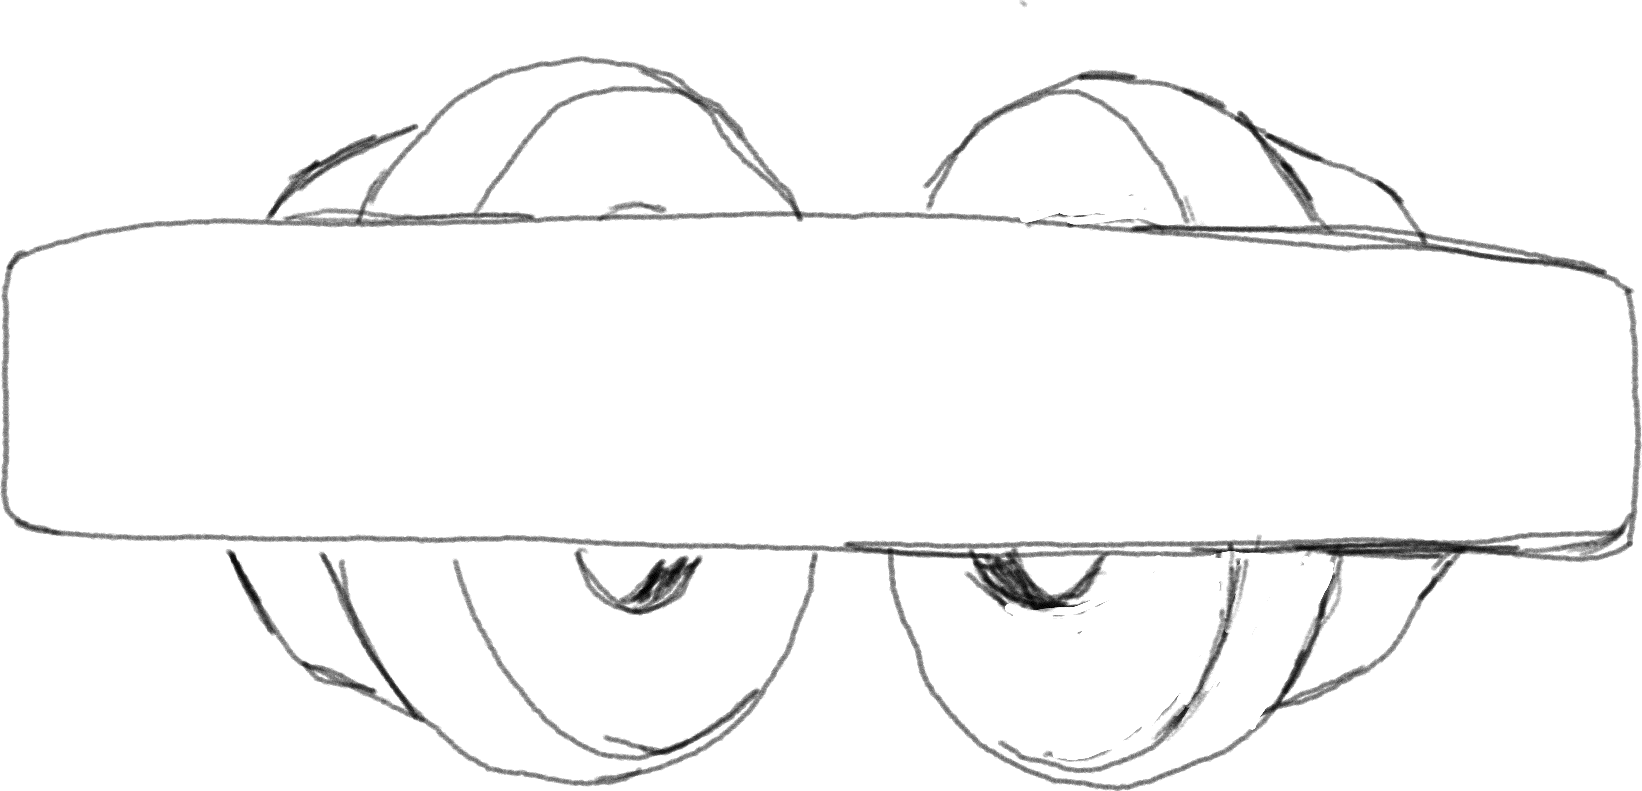
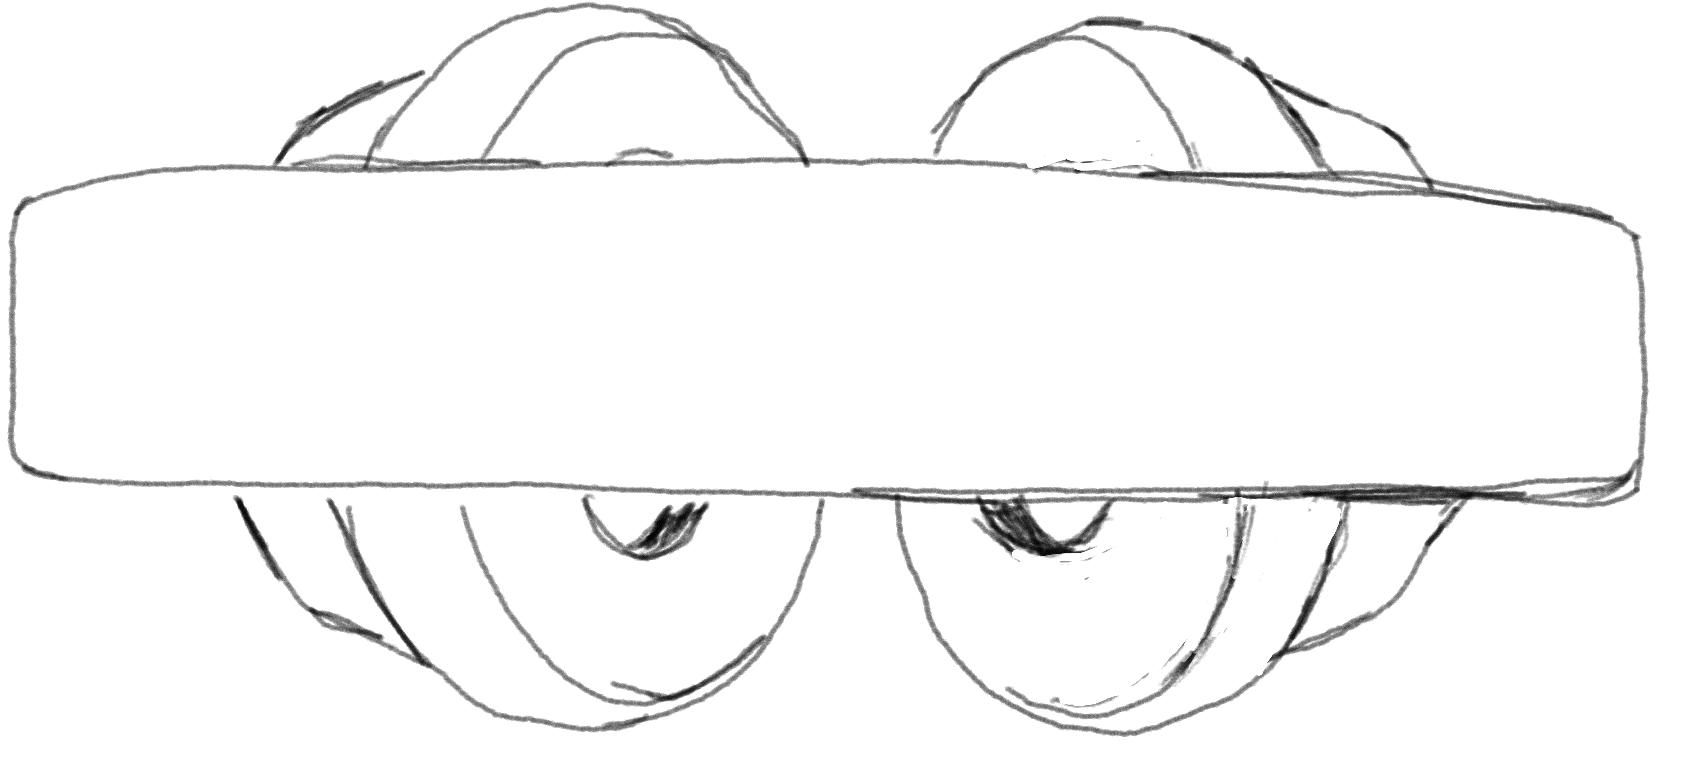
💄 New styles

Changed region(s): [[0.0, 0.0, 1.0, 1.0], [0.2795, 0.7263, 0.3106, 0.8474], [0.5591, 0.8474, 0.5901, 0.9079]]

diff --git a/src/features/desk/presentation/background.ts b/src/features/desk/presentation/background.ts
@@ -4,10 +4,23 @@ import { color } from '../../../color.js';
 /** Public asset path (under `public/`). */
 export const DESK_FOAM_IMAGE = 'foam-splash.jpg';
 export const DESK_FOAM_TILE_SIZE_PX = 1480;
+export const DESK_GEOMETRIC_GRUNGE_IMAGE = 'geometric_grunge_line_pattern.jpg';
+export const DESK_GEOMETRIC_GRUNGE_TILE_SIZE_PX = {
+  width: 1024,
+  height: 512,
+};
 
 export type DeskBackgroundBase =
   | { type: 'color'; value: string }
-  | { type: 'gradient'; value: string };
+  | { type: 'gradient'; value: string }
+  | {
+      type: 'image';
+      value: string;
+      size: string;
+      position: string;
+      repeat: 'repeat' | 'repeat-x' | 'repeat-y' | 'no-repeat';
+      tint?: { color: string; opacityPercent: number };
+    };
 
 /**
  * Desk background tuning. Foam is a high-contrast texture; `screen` / `lighten`
@@ -27,19 +40,42 @@ export const deskBackground: {
     opacityPercent: number;
   };
 } = {
-  base: { type: 'color', value: color.surface.desk },
+  base: {
+    type: 'image',
+    value: DESK_GEOMETRIC_GRUNGE_IMAGE,
+    size: `${DESK_GEOMETRIC_GRUNGE_TILE_SIZE_PX.width}px ${DESK_GEOMETRIC_GRUNGE_TILE_SIZE_PX.height}px`,
+    position: '0 0',
+    repeat: 'repeat',
+    tint: { color: color.accent.wood, opacityPercent: 68 },
+  },
   foam: {
     blendMode: 'screen',
     hueRotateDeg: 0,
     saturatePercent: 100,
     brightnessPercent: 100,
     contrastPercent: 100,
-    opacityPercent: 100,
+    opacityPercent: 0,
   },
 };
 
+function getPublicAssetUrl(path: string) {
+  return `${import.meta.env.BASE_URL}${path}`;
+}
+
 function getDeskFoamUrl() {
-  return `${import.meta.env.BASE_URL}${DESK_FOAM_IMAGE}`;
+  return getPublicAssetUrl(DESK_FOAM_IMAGE);
+}
+
+function getColorWithOpacity(colorValue: string, opacityPercent: number) {
+  if (/^#[0-9a-f]{6}$/i.test(colorValue)) {
+    const red = Number.parseInt(colorValue.slice(1, 3), 16);
+    const green = Number.parseInt(colorValue.slice(3, 5), 16);
+    const blue = Number.parseInt(colorValue.slice(5, 7), 16);
+
+    return `rgb(${red} ${green} ${blue} / ${opacityPercent}%)`;
+  }
+
+  return `color-mix(in srgb, ${colorValue} ${opacityPercent}%, transparent)`;
 }
 
 function getDeskFoamFilter(): string | undefined {
@@ -63,6 +99,31 @@ export function getDeskBaseStyle(): CSSProperties {
       backgroundSize: 'auto',
       backgroundPosition: '0 0',
       backgroundRepeat: 'repeat',
+    };
+  }
+
+  if (base.type === 'image') {
+    const imageUrl = `url(${getPublicAssetUrl(base.value)})`;
+
+    if (base.tint) {
+      const tint = getColorWithOpacity(base.tint.color, base.tint.opacityPercent);
+
+      return {
+        backgroundColor: color.surface.desk,
+        backgroundImage: `linear-gradient(${tint}, ${tint}), ${imageUrl}`,
+        backgroundBlendMode: 'normal, multiply',
+        backgroundSize: `auto, ${base.size}`,
+        backgroundPosition: `0 0, ${base.position}`,
+        backgroundRepeat: `repeat, ${base.repeat}`,
+      };
+    }
+
+    return {
+      backgroundColor: color.surface.desk,
+      backgroundImage: imageUrl,
+      backgroundSize: base.size,
+      backgroundPosition: base.position,
+      backgroundRepeat: base.repeat,
     };
   }
 

diff --git a/src/features/desk/presentation/headphones-lines.ts b/src/features/desk/presentation/headphones-lines.ts
@@ -4,6 +4,12 @@ import { shade } from '../utils/color.js';
 export const HEADPHONES_LINE_COUNT = 3;
 export const HEADPHONES_BOIL_CYCLE_SECONDS = 0.36;
 
+const HEADPHONES_FILL_IMAGE_WIDTH = 1646;
+const HEADPHONES_FILL_IMAGE_HEIGHT = 731;
+const HEADPHONES_LINE_IMAGE_WIDTH = 1700;
+const HEADPHONES_LINE_IMAGE_HEIGHT = 760;
+const HEADPHONES_LINE_OFFSET_X = 10;
+const HEADPHONES_LINE_OFFSET_Y = 0;
 const HEADPHONES_ASSET_PATH = 'lines/headphones';
 const HEADPHONES_ASSET_NAME = 'heaphones';
 
@@ -67,6 +73,23 @@ export function getHeadphonesMaskStyle(
     maskPosition: 'center',
     WebkitMaskRepeat: 'no-repeat',
     maskRepeat: 'no-repeat',
+  };
+}
+
+export function getHeadphonesLineMaskStyle(
+  src: string,
+  backgroundColor: string,
+  opacity = 1
+): CSSProperties {
+  return {
+    ...getHeadphonesMaskStyle(src, backgroundColor, opacity),
+    inset: undefined,
+    left: '50%',
+    top: '50%',
+    width: `${(HEADPHONES_LINE_IMAGE_WIDTH / HEADPHONES_FILL_IMAGE_WIDTH) * 100}%`,
+    height: `${(HEADPHONES_LINE_IMAGE_HEIGHT / HEADPHONES_FILL_IMAGE_HEIGHT) * 100}%`,
+    transform: `translate(calc(-50% + ${HEADPHONES_LINE_OFFSET_X}px), calc(-50% + ${HEADPHONES_LINE_OFFSET_Y}px))`,
+    transformOrigin: 'center center',
   };
 }
 

diff --git a/src/features/desk/renderers/headphones-lines-overlay.tsx b/src/features/desk/renderers/headphones-lines-overlay.tsx
@@ -2,9 +2,9 @@ import type { CSSProperties } from 'react';
 import {
   getHeadphonesBoilPhaseOffset,
   getHeadphonesBoilStartFrame,
+  getHeadphonesLineMaskStyle,
   getHeadphonesLineSrc,
   getHeadphonesLineVariant,
-  getHeadphonesMaskStyle,
   HEADPHONES_LINE_COUNT,
 } from '../presentation/headphones-lines.js';
 
@@ -32,7 +32,7 @@ export function HeadphonesLinesOverlay({
           <div
             key={frameIndex}
             className={`paper-lines-boil-frame paper-lines-boil-frame--${frameIndex} absolute`}
-            style={getHeadphonesMaskStyle(src, lineColor, 0.92)}
+            style={getHeadphonesLineMaskStyle(src, lineColor, 0.92)}
           />
         );
       })}

diff --git a/src/features/desk/actions.ts b/src/features/desk/actions.ts
@@ -287,7 +287,8 @@ export const actions = createActions((world) => ({
     const visibleRect = getVisibleDeskRectForWorld(world);
     const headphonesSize = getHeadphonesSize(config);
     const lineColor =
-      config.lineColor ?? (config.fillColor !== undefined ? shade(config.fillColor, -92) : undefined);
+      config.lineColor ??
+      (config.fillColor !== undefined ? shade(config.fillColor, -132) : undefined);
 
     const entity = world.spawn(
       Headphones({

diff --git a/src/features/desk/startup.tsx b/src/features/desk/startup.tsx
@@ -20,7 +20,7 @@ export function Startup() {
 
   useEffect(() => {
     const desk = spawnDesk();
-    const headphones = spawnHeadphones({ width: 440, rotation: -34 });
+    const headphones = spawnHeadphones({ width: 500, rotation: -34 });
 
     const articles = articlesCatalog.map((article) => ({
       id: article.slug,

diff --git a/src/features/desk/traits/index.ts b/src/features/desk/traits/index.ts
@@ -63,7 +63,7 @@ export const HEADPHONES_ASPECT_RATIO = 1646 / 731;
 export const Headphones = trait({
   id: 'desk-headphones',
   fillColor: color.accent.sky,
-  lineColor: shade(color.accent.sky, -92),
+  lineColor: shade(color.accent.sky, -132),
   /** Pixels. */
   width: 560,
   /** Pixels. */
